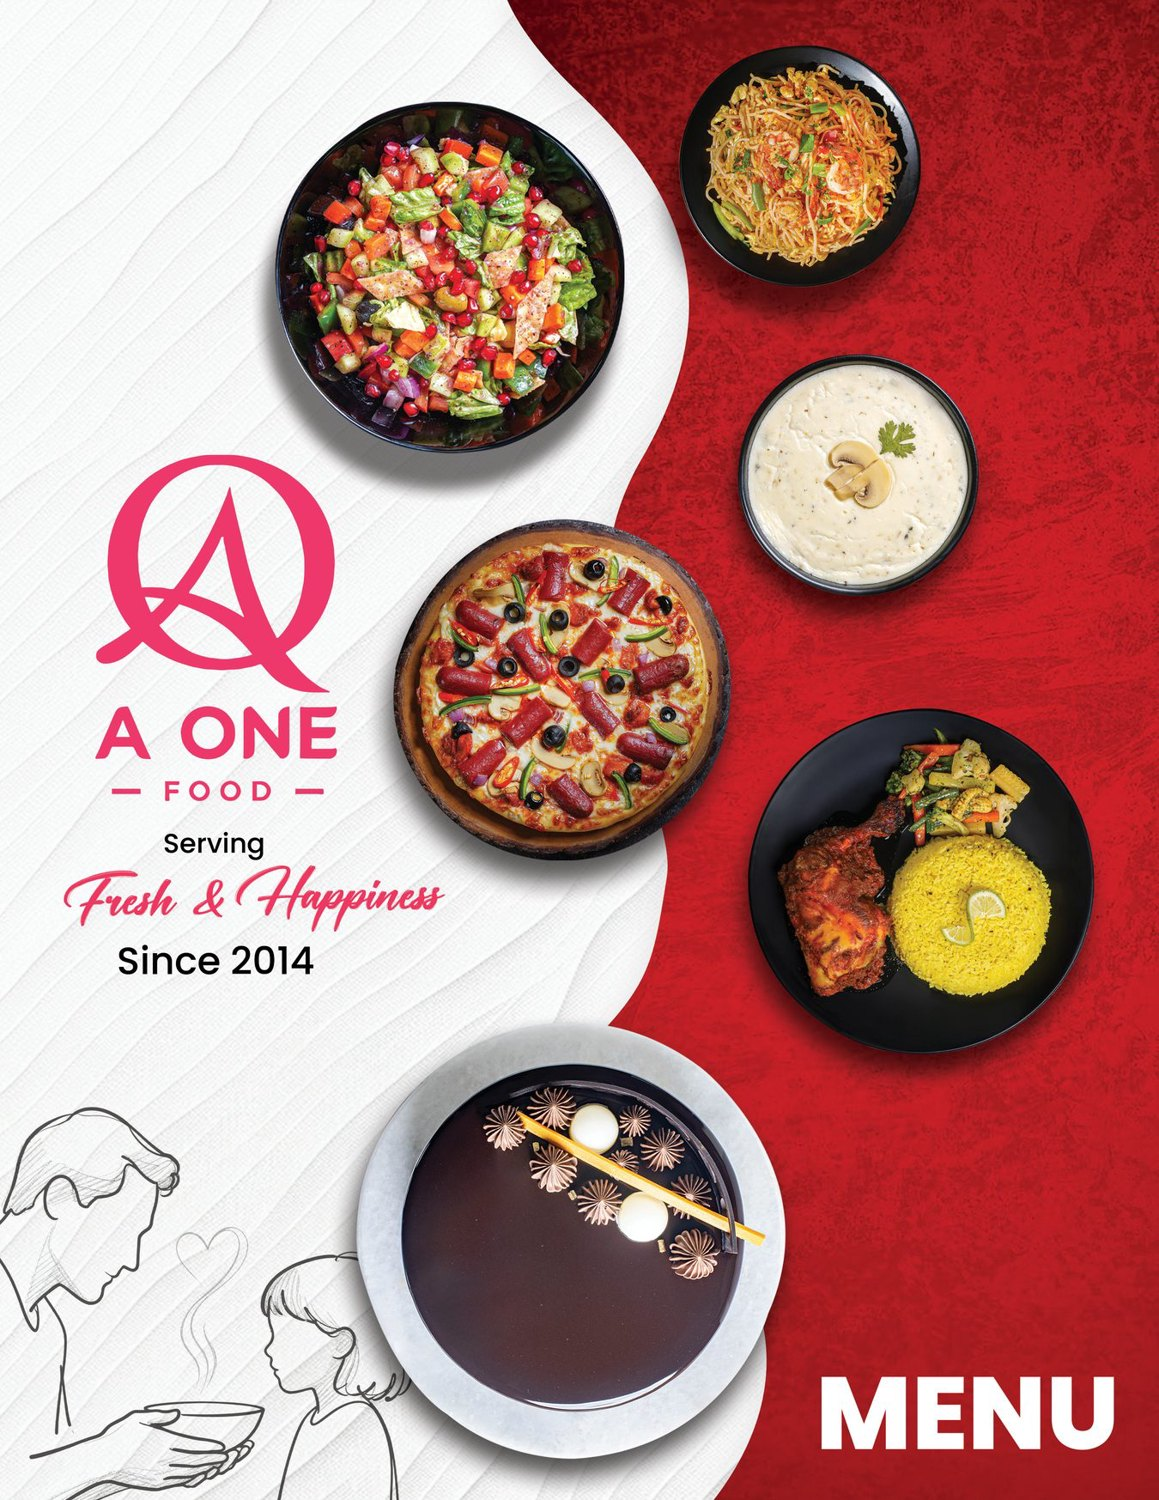
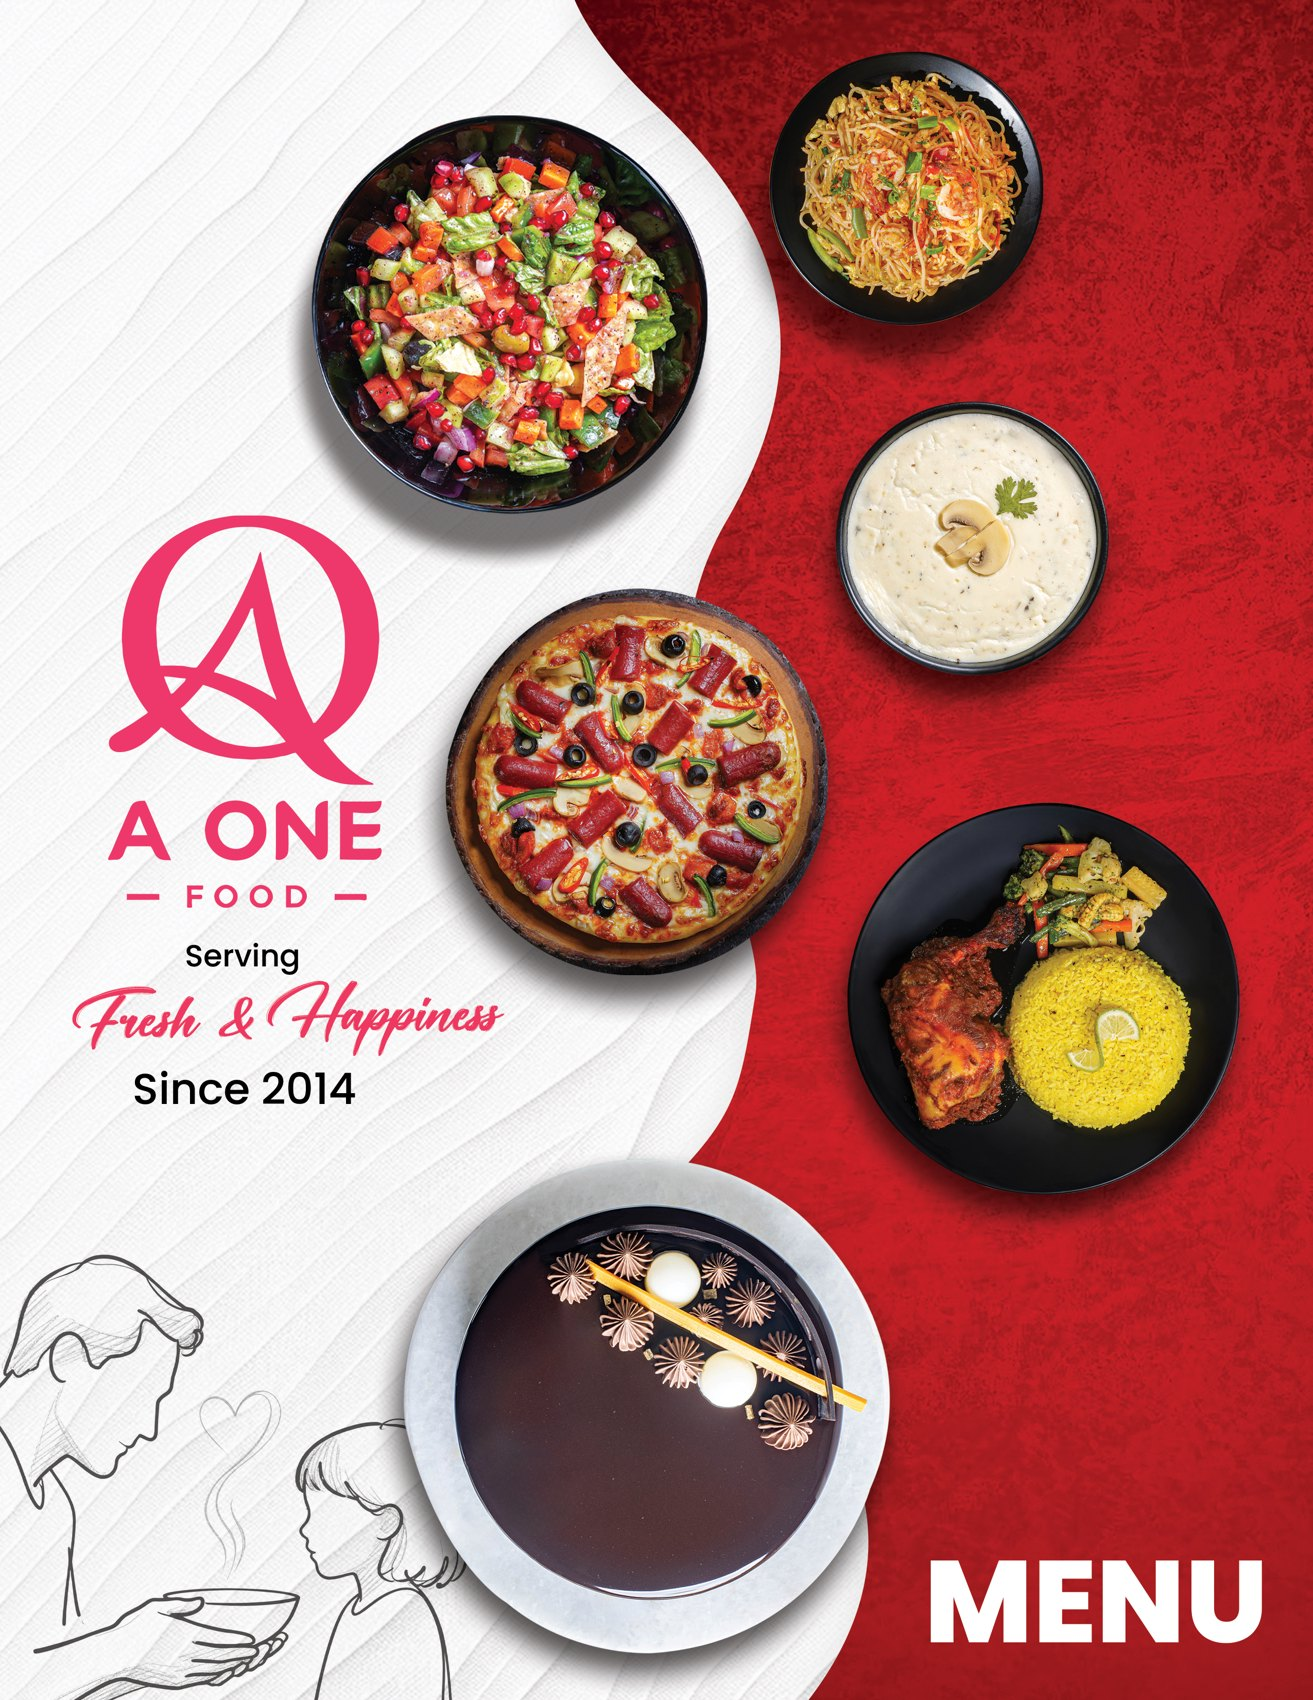
Serve authentic portfolio images locally for reliable loading

Changed region(s): [[0.4349, 0.736, 0.4659, 0.7667]]

diff --git a/nafis-cinematic-portfolio/app/page.tsx b/nafis-cinematic-portfolio/app/page.tsx
@@ -4,9 +4,9 @@ import {projects,services,testimonials} from '@/lib/data';
 import {ProjectCard} from '@/components/ProjectCard';
 import {getSettings} from '@/lib/settings';
 export default async function Home(){const [ps,ss,ts,settings]=await Promise.all([projects(),services(),testimonials(),getSettings()]);return <>
- <section className="hero"><div className="container"><div className="hero-grid"><div className="reveal"><span className="availability">{settings.available?"Open for project inquiries":"Currently booking future projects"}</span><h1>{settings.hero_title.includes(" with ")?<>{settings.hero_title.split(" with ")[0]} with<br/><span>{settings.hero_title.split(" with ").slice(1).join(" with ")}</span></>:settings.hero_title}</h1><p className="hero-desc">{settings.hero_description}</p><div className="hero-buttons"><Link className="btn primary" href="/work">Explore selected work <ArrowUpRight size={17}/></Link><Link className="btn" href="/contact">Let’s collaborate <ArrowUpRight size={17}/></Link></div></div><div className="portrait-frame hero-portrait"><img src="https://raw.githubusercontent.com/nafis2001/my-protfolio/main/nafis-cinematic-portfolio/public/portfolio/portrait-nafis.jpg" alt="Nafis Ibn Masud, creative visualizer and graphic designer" width={920} height={920} loading="eager"/></div></div><div className="hero-bottom"><span>Independent designer / Dhaka, BD</span><span>Scroll to explore <ArrowDownRight size={14} style={{verticalAlign:'middle'}}/></span></div></div></section>
+ <section className="hero"><div className="container"><div className="hero-grid"><div className="reveal"><span className="availability">{settings.available?"Open for project inquiries":"Currently booking future projects"}</span><h1>{settings.hero_title.includes(" with ")?<>{settings.hero_title.split(" with ")[0]} with<br/><span>{settings.hero_title.split(" with ").slice(1).join(" with ")}</span></>:settings.hero_title}</h1><p className="hero-desc">{settings.hero_description}</p><div className="hero-buttons"><Link className="btn primary" href="/work">Explore selected work <ArrowUpRight size={17}/></Link><Link className="btn" href="/contact">Let’s collaborate <ArrowUpRight size={17}/></Link></div></div><div className="portrait-frame hero-portrait"><img src="/portfolio/nafis-portrait.jpg" alt="Nafis Ibn Masud, creative visualizer and graphic designer" width={920} height={920} loading="eager"/></div></div><div className="hero-bottom"><span>Independent designer / Dhaka, BD</span><span>Scroll to explore <ArrowDownRight size={14} style={{verticalAlign:'middle'}}/></span></div></div></section>
  <section className="section container"><div className="section-heading"><div><span className="eyebrow">01 / Selected design work</span><h2>Ideas made<br/>visible.</h2></div><Link className="btn" href="/work">All projects <ArrowUpRight size={16}/></Link></div><div className="grid12">{ps.filter(p=>p.featured).slice(0,8).map((p,i)=><ProjectCard key={p.id} p={p} index={i}/>)}</div>{ps.length===0&&<p>New projects are being curated. Browse my <a href="https://www.behance.net/nafis24">Behance portfolio</a>.</p>}</section>
  <section className="section" style={{background:'var(--panel)'}}><div className="container"><div className="section-heading"><div><span className="eyebrow">02 / What I do</span><h2>Craft meets<br/>curiosity.</h2></div><p style={{maxWidth:350}}>From the first spark of an idea to a fully realized visual world.</p></div><div className="service-grid">{ss.slice(0,3).map((s,i)=><Link href="/services" className="service-card" key={s.id}><span className="number">0{i+1} / SERVICE</span><h3>{s.title} ↗</h3><p>{s.description}</p><span className="eyebrow">Explore service</span></Link>)}</div></div></section>
- <section className="section container"><div className="cols2" style={{alignItems:'center'}}><div><span className="eyebrow">03 / A little about me</span><h2>Always exploring.<br/>Never ordinary.</h2><p>I'm driven by the belief that good design is more than decoration. It is a way to give ideas clarity, character, and staying power.</p><Link className="btn" href="/about">Get to know me <ArrowUpRight size={16}/></Link></div><div className="portrait-frame about-teaser"><img src="https://raw.githubusercontent.com/nafis2001/my-protfolio/main/nafis-cinematic-portfolio/public/portfolio/portrait-nafis.jpg" alt="Nafis Ibn Masud in cinematic blue studio lighting" loading="lazy"/><span className="portrait-label">Nafis Ibn Masud — Creative Visualizer</span></div></div></section>
+ <section className="section container"><div className="cols2" style={{alignItems:'center'}}><div><span className="eyebrow">03 / A little about me</span><h2>Always exploring.<br/>Never ordinary.</h2><p>I'm driven by the belief that good design is more than decoration. It is a way to give ideas clarity, character, and staying power.</p><Link className="btn" href="/about">Get to know me <ArrowUpRight size={16}/></Link></div><div className="portrait-frame about-teaser"><img src="/portfolio/nafis-portrait.jpg" alt="Nafis Ibn Masud in cinematic blue studio lighting" loading="lazy"/><span className="portrait-label">Nafis Ibn Masud — Creative Visualizer</span></div></div></section>
  {ts.length>0&&<section className="section container"><span className="eyebrow">04 / Kind words</span><h2>In good company.</h2><div className="service-grid">{ts.slice(0,3).map(t=><blockquote className="service-card" key={t.id}><p>“{t.quote}”</p><b>{t.author}</b><br/><small className="muted">{t.role}, {t.company}</small></blockquote>)}</div></section>}
  </>}

diff --git a/nafis-cinematic-portfolio/app/about/page.tsx b/nafis-cinematic-portfolio/app/about/page.tsx
@@ -1,4 +1,4 @@
 import Link from 'next/link';
 import {metadata as makeMetadata} from '@/lib/seo';
 export const metadata:import('next').Metadata=makeMetadata('About','Learn about Nafis Ibn Masud, a multidisciplinary creative visualizer based in Dhaka.','/about');
-export default function About(){return <div className="container section"><div className="page-intro"><span className="eyebrow">The human behind the pixels</span><h1>Curious by<br/><span style={{color:'var(--accent)'}}>design.</span></h1><p>I’m Nafis Ibn Masud, an independent graphic designer in Dhaka. I work across identity, campaigns, packaging, editorial design and motion to give ideas a memorable visual voice.</p></div><div className="cols2"><figure className="portrait-frame about-portrait"><img src="https://raw.githubusercontent.com/nafis2001/my-protfolio/main/nafis-cinematic-portfolio/public/portfolio/portrait-nafis.jpg" alt="Portrait of Nafis Ibn Masud, a Dhaka-based multidisciplinary graphic designer" width={1200} height={1200} loading="eager"/></figure><div><span className="eyebrow">My perspective</span><h2 style={{fontSize:'clamp(32px,4vw,65px)'}}>The details make the difference.</h2><p>My process starts with a question: what should people feel when they see this? I combine conceptual thinking with precise execution, whether the result lives on a screen, on a shelf or in motion.</p><p>I work with Adobe Photoshop, Illustrator, and creative video tools while constantly exploring new workflows and visual approaches.</p><Link href="/contact" className="btn primary">Work with me ↗</Link></div></div><section className="section"><span className="eyebrow">Creative toolkit</span><h2>What I bring.</h2><div className="filterbar">{['Art direction','Visual storytelling','Brand identity','Social design','Packaging','Editorial','Photoshop','Illustrator','Motion graphics','Video editing'].map(x=><span key={x} className="tag">{x}</span>)}</div><p>Work history, awards and formal résumé details will appear here once verified and approved.</p></section></div>}
+export default function About(){return <div className="container section"><div className="page-intro"><span className="eyebrow">The human behind the pixels</span><h1>Curious by<br/><span style={{color:'var(--accent)'}}>design.</span></h1><p>I’m Nafis Ibn Masud, an independent graphic designer in Dhaka. I work across identity, campaigns, packaging, editorial design and motion to give ideas a memorable visual voice.</p></div><div className="cols2"><figure className="portrait-frame about-portrait"><img src="/portfolio/nafis-portrait.jpg" alt="Portrait of Nafis Ibn Masud, a Dhaka-based multidisciplinary graphic designer" width={1200} height={1200} loading="eager"/></figure><div><span className="eyebrow">My perspective</span><h2 style={{fontSize:'clamp(32px,4vw,65px)'}}>The details make the difference.</h2><p>My process starts with a question: what should people feel when they see this? I combine conceptual thinking with precise execution, whether the result lives on a screen, on a shelf or in motion.</p><p>I work with Adobe Photoshop, Illustrator, and creative video tools while constantly exploring new workflows and visual approaches.</p><Link href="/contact" className="btn primary">Work with me ↗</Link></div></div><section className="section"><span className="eyebrow">Creative toolkit</span><h2>What I bring.</h2><div className="filterbar">{['Art direction','Visual storytelling','Brand identity','Social design','Packaging','Editorial','Photoshop','Illustrator','Motion graphics','Video editing'].map(x=><span key={x} className="tag">{x}</span>)}</div><p>Work history, awards and formal résumé details will appear here once verified and approved.</p></section></div>}

diff --git a/nafis-cinematic-portfolio/lib/demo.ts b/nafis-cinematic-portfolio/lib/demo.ts
@@ -3,7 +3,17 @@ import type {Project, Service, Media} from './types';
 // Curated artwork sourced from the portfolio owner's connected Google Drive.
 // The images are real design exports. No campaign performance outcomes are asserted.
 const assetRoot='https://raw.githubusercontent.com/nafis2001/my-protfolio/main/nafis-cinematic-portfolio/public/portfolio/';
-const asset=(name:string)=>assetRoot+name;
+const localAssetMap:Record<string,string>={
+ 'borno-bazar-main.png':'borno-bazar-campaign.jpg',
+ 'yaqeen-brand-cover.png':'yaqeen-brand-cover.jpg',
+ 'nongor-campaign-main.png':'nongor-creative.jpg',
+ 'bikkhato-mockup.png':'bikkhato-packaging.jpg',
+ 'a-one-menu-cover.jpg':'a-one-menu-cover.jpg',
+ 'makeup-chari-summer.png':'makeup-chari-sale.jpg',
+ 'naviforce-mnemonic.png':'naviforce-mnemonic.png',
+ 'yaqeen-packaging-family.png':'yaqeen-packaging.jpg'
+};
+const asset=(name:string)=>localAssetMap[name]?'/portfolio/'+localAssetMap[name]:assetRoot+name;
 const media=(name:string,alt:string):Media=>({url:asset(name),alt,type:'image'});
 
 const base={
